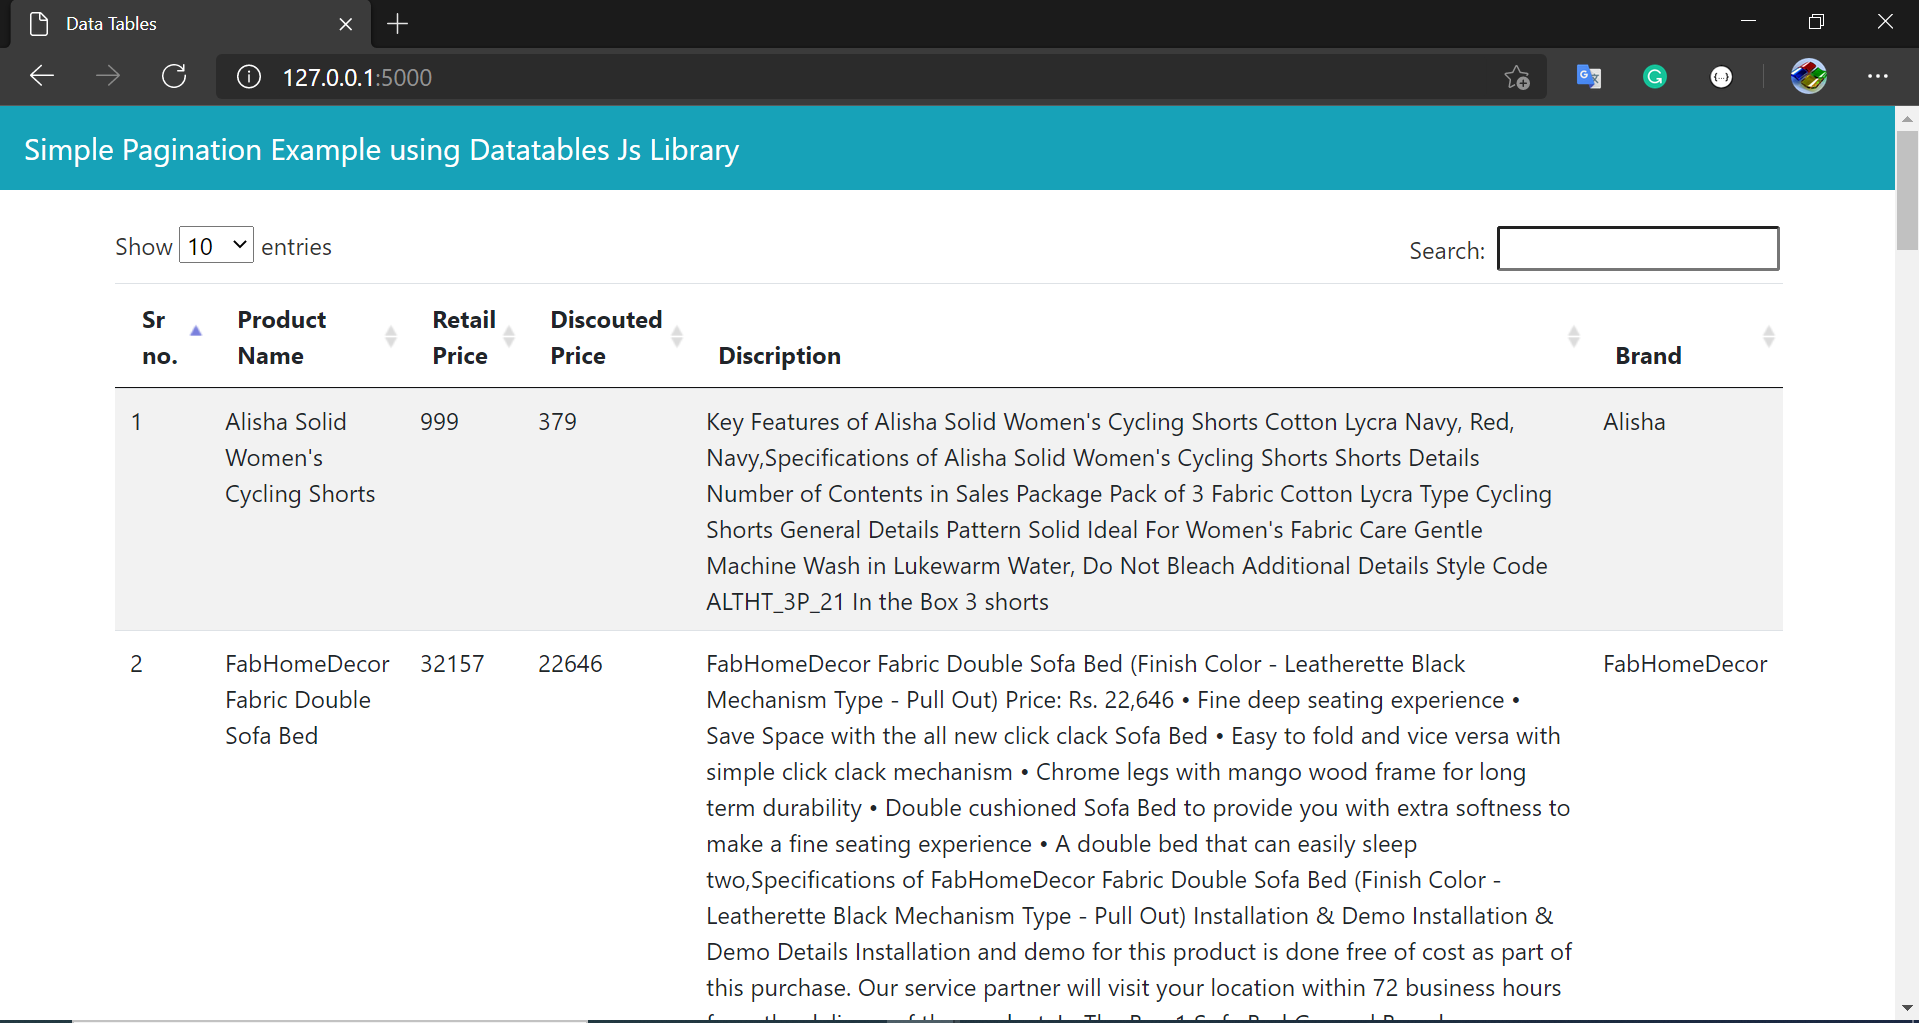
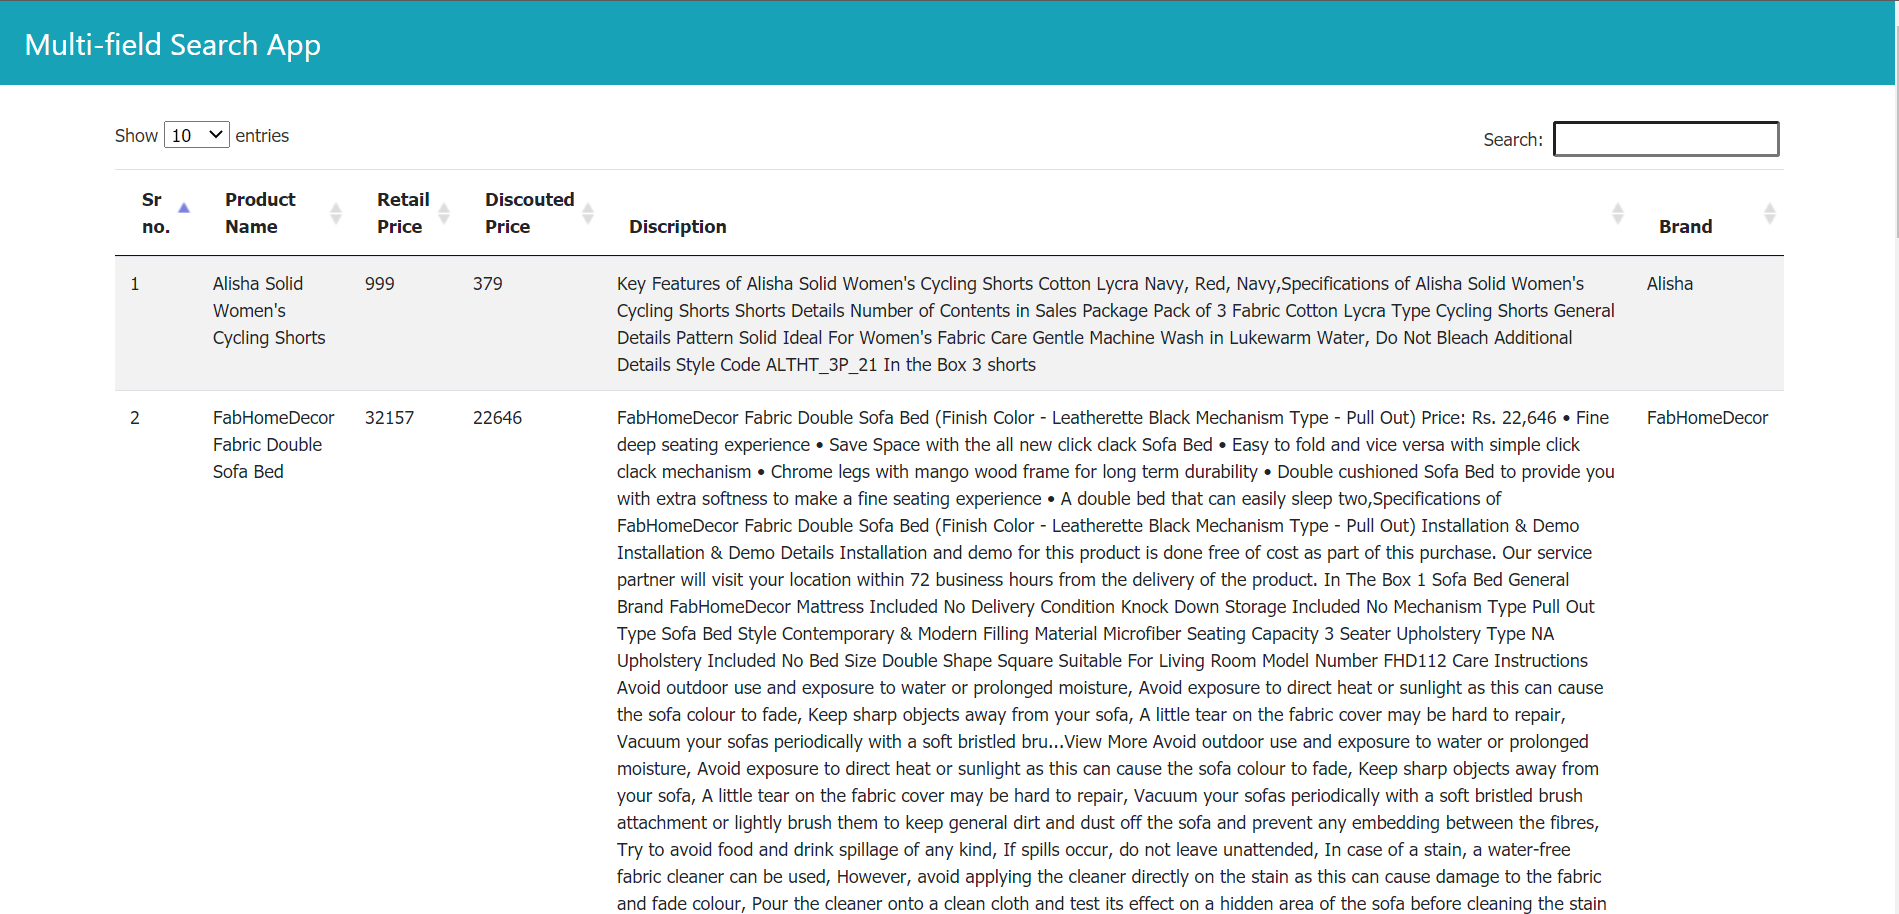
updated app, image, gui page

diff --git a/templates/index.html b/templates/index.html
@@ -1,32 +1,18 @@
 <!DOCTYPE html>
 <html>
-
 <head>
     <meta charset="utf-8" />
     <meta http-equiv="X-UA-Compatible" content="IE=edge">
-    <title>Data Tables</title>
+    <title>Multi-field Search App</title>
     <meta name="viewport" content="width=device-width, initial-scale=1">
-    <link rel="stylesheet" href="https://stackpath.bootstrapcdn.com/bootstrap/4.2.1/css/bootstrap.min.css"
-        integrity="sha384-GJzZqFGwb1QTTN6wy59ffF1BuGJpLSa9DkKMp0DgiMDm4iYMj70gZWKYbI706tWS" crossorigin="anonymous">
-    <script src="https://code.jquery.com/jquery-3.3.1.slim.min.js"
-        integrity="sha384-q8i/X+965DzO0rT7abK41JStQIAqVgRVzpbzo5smXKp4YfRvH+8abtTE1Pi6jizo"
-        crossorigin="anonymous"></script>
-    <script src="https://cdnjs.cloudflare.com/ajax/libs/popper.js/1.14.6/umd/popper.min.js"
-        integrity="sha384-wHAiFfRlMFy6i5SRaxvfOCifBUQy1xHdJ/yoi7FRNXMRBu5WHdZYu1hA6ZOblgut"
-        crossorigin="anonymous"></script>
-    <script src="https://stackpath.bootstrapcdn.com/bootstrap/4.2.1/js/bootstrap.min.js"
-        integrity="sha384-B0UglyR+jN6CkvvICOB2joaf5I4l3gm9GU6Hc1og6Ls7i6U/mkkaduKaBhlAXv9k"
-        crossorigin="anonymous"></script>
-
-    <script src="http://code.jquery.com/jquery-3.3.1.min.js"
-        integrity="sha256-FgpCb/KJQlLNfOu91ta32o/NMZxltwRo8QtmkMRdAu8=" crossorigin="anonymous"></script>
+    <link rel="stylesheet" href="https://stackpath.bootstrapcdn.com/bootstrap/4.2.1/css/bootstrap.min.css" integrity="sha384-GJzZqFGwb1QTTN6wy59ffF1BuGJpLSa9DkKMp0DgiMDm4iYMj70gZWKYbI706tWS" crossorigin="anonymous">
+    <script src="https://code.jquery.com/jquery-3.3.1.slim.min.js" integrity="sha384-q8i/X+965DzO0rT7abK41JStQIAqVgRVzpbzo5smXKp4YfRvH+8abtTE1Pi6jizo" crossorigin="anonymous"></script>
+    <script src="https://cdnjs.cloudflare.com/ajax/libs/popper.js/1.14.6/umd/popper.min.js" integrity="sha384-wHAiFfRlMFy6i5SRaxvfOCifBUQy1xHdJ/yoi7FRNXMRBu5WHdZYu1hA6ZOblgut" crossorigin="anonymous"></script>
+    <script src="https://stackpath.bootstrapcdn.com/bootstrap/4.2.1/js/bootstrap.min.js" integrity="sha384-B0UglyR+jN6CkvvICOB2joaf5I4l3gm9GU6Hc1og6Ls7i6U/mkkaduKaBhlAXv9k" crossorigin="anonymous"></script>
+    <script src="http://code.jquery.com/jquery-3.3.1.min.js" integrity="sha256-FgpCb/KJQlLNfOu91ta32o/NMZxltwRo8QtmkMRdAu8=" crossorigin="anonymous"></script>
     <link rel="stylesheet" href="https://cdn.datatables.net/1.10.19/css/jquery.dataTables.min.css">
     <script src="https://cdn.datatables.net/1.10.19/js/jquery.dataTables.min.js"></script>
-    <style>
-        .top-buffer { margin-top:80px; }
-       
-        
-    </style>
+    <link rel="stylesheet" href="{{ url_for('static',filename='style.css') }}">
 </head>
 
 <body>
@@ -35,13 +21,11 @@
             <div class="col-12">
                 <nav class="navbar fixed-top navbar-dark bg-info">
                     <a class="navbar-brand" href="#">  
-                        Simple Pagination Example using Datatables Js Library
+                        Multi-field Search App
                     </a>
                 </nav>
             </div>
         </div>
-        <!-- <h2>Simple Pagination Example using Datatables Js Library</h2> -->
-        <!-- Image and text -->
     </div>   
     <div class="container"> 
         <div class="row top-buffer">
@@ -59,22 +43,20 @@
                     </thead>
                 </table>
             </div>
-        </div>
+        </div>  
     </div>
+    <div class="container top-buffer">
+        <div class="row">
+            <div class="col-12">
+                <nav class="navbar sticky-bottom navbar-dark bg-info">
+                    <a class="navbar-brand" href="#">  
+                        
+                    </a>
+                </nav>
+            </div>
+        </div>
+    </div> 
 
-    <script>
-        $('#myTable').DataTable({
-            ajax: "/data",
-            columns: [
-                { data: 5 },
-                { data: 0 },
-                { data: 1 },
-                { data: 2 },
-                { data: 3 },
-                { data: 4 },
-            ]
-        });
-    </script>
+    <script src="{{ url_for('static',filename='javascript.js') }}"></script>
 </body>
-
 </html>

diff --git a/static/javascript.js b/static/javascript.js
@@ -1,0 +1,12 @@
+$('#myTable').DataTable({
+    pageLength: 10,
+    ajax: "/data",
+    columns: [
+        { data: 5 },
+        { data: 0 },
+        { data: 1 },
+        { data: 2 },
+        { data: 3 },
+        { data: 4 },
+    ]
+});

diff --git a/static/style.css b/static/style.css
@@ -1,0 +1,10 @@
+.top-buffer { 
+    margin-top:80px; 
+}
+.dataTables_wrapper {
+    font-family: tahoma;
+    font-size: 12px;
+    position: relative;
+    clear: both;
+    zoom: 1;
+} 
